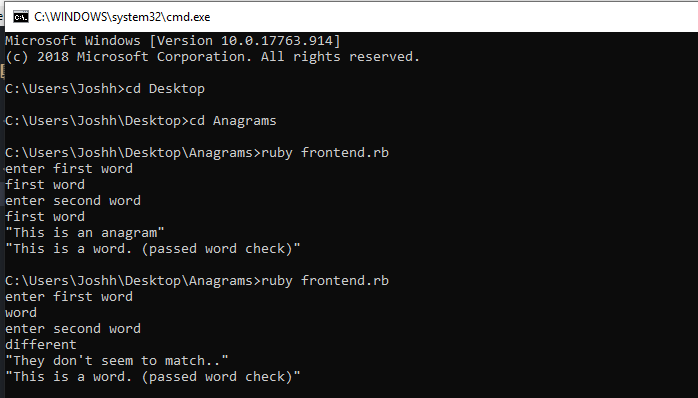
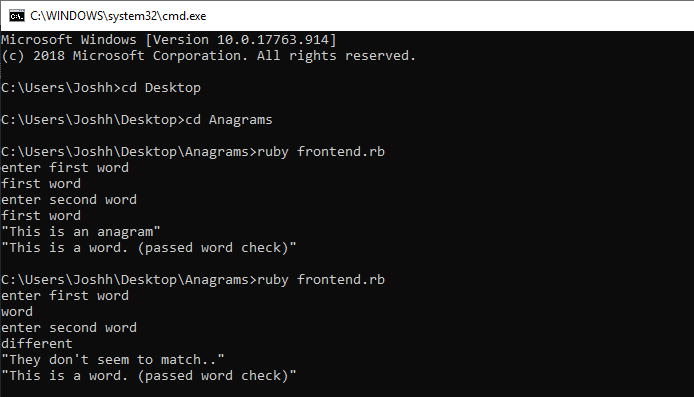
Edit screenshot
Update README.MD

Update README.MD

Update README.MD

Update README.MD

Changed region(s): [[0.0, 0.0, 1.0, 1.0]]

diff --git a/README.MD b/README.MD
@@ -2,8 +2,9 @@
   
   Anagram word checker allows a user to check if two words are anagrams. Simply input two words via the prompts.
 
-![](anagrams-app.png)
-![](anagrams-test.png)
+
+<br />
+![](assets/anagrams-test.png)
   
 ## _Specs_
 
